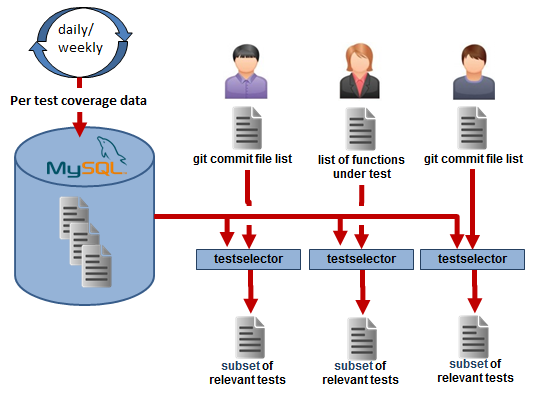
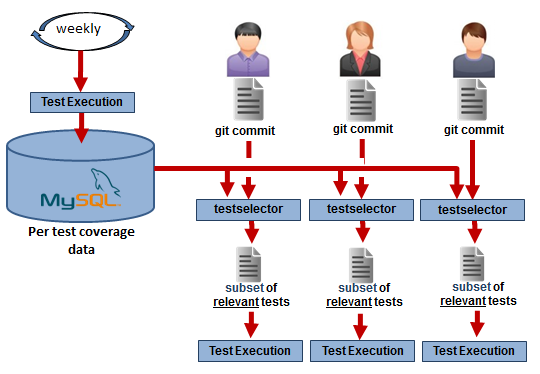
testselector checks for non-committed changes
Updates to Readme

diff --git a/testselector/src/lib/test_selection.rb b/testselector/src/lib/test_selection.rb
@@ -14,12 +14,23 @@ module TestSelection
     files.each do |file|
       if (file =~ includeRegExp)
         unless (file =~ excludeRegExp)
-          prunedFiles.push(file.sub(gitParam['removePrefix'], gitParam['replacePrefixWith']))
+          prunedFiles.push(file)
         end
       end
     end
     return prunedFiles
   end
+
+  # Function: given an array of filenames,
+  # will return an array containing only the interesting file names
+  def self.renameFileList(files, gitParam )
+    renamedFiles = Array.new
+    files.each do |file|
+      renamedFiles.push(file.sub(gitParam['removePrefix'], gitParam['replacePrefixWith']))
+    end
+    return renamedFiles
+  end
+
   # Creates a test suite with the name specified by "outputFile" using the
   # coverage data provided by the executions (the identifiers of which are)
   # specified by the "testRuns" argument for the git commit in the radio
@@ -41,34 +52,35 @@ module TestSelection
         puts "\t#{testsuite}"
       end
     end
+    # Then, from each commit get the list of modified files.
+    # The current assumptions are that there is no need to regress the
+    # deleted file(s), so they wil be excluded. In addition, for new
+    # files there is no regression test yet, so they will also be
+    # excluded.
+    commitFiles = Array.new
+    commits.each do |commit|
+      commitFiles.concat(GitWrapper::getModifiedFiles(debug, commit))
+    end
+    #Remove unrelated files to speed-up processing
+    commitFiles = pruneFileList(commitFiles, gitParam)
+    if (commitFiles.size == 0)
+      $stderr.puts "Error: No C++ files found in commit"
+      exit 1
+    end
     if selectBy ==  :files
-      # Then, from each commit get the list of modified files.
-      # The current assumptions are that there is no need to regress the
-      # deleted file(s), so they wil be excluded. In addition, for new
-      # files there is no regression test yet, so they will also be
-      # excluded.
-      commitFiles = Array.new
-      commits.each do |commit|
-        commitFiles.concat(GitWrapper::getModifiedFiles(debug, commit))
-      end
-      #Remove unrelated files to speed-up processing
-      files = pruneFileList(commitFiles, gitParam)
-      if (files.size == 0)
-        $stderr.puts "Error: No C++ files found in commit"
-        exit 1
-      end
-      puts "Which exercise code in one of the following #{files.size} files:"
-      files.sort!
-      files.each do |file|
+      commitFiles = renameFileList(commitFiles, gitParam)
+      puts "Which exercise code in one of the following #{commitFiles.size} files:"
+      commitFiles.sort!
+      commitFiles.each do |file|
         puts "\t#{file}"
       end
-      create_test_suite_from_files(files, testRuns, testSuites, debug, escapeTestNames, outputFile, dbParam, outputParam)
+      create_test_suite_from_files(commitFiles, testRuns, testSuites, debug, escapeTestNames, outputFile, dbParam, outputParam)
     elsif selectBy ==  :functions
-       commitFunctions = Array.new
-       commits.each do |commit|
-         modifiedFunctions = GitWrapper::getModifiedFunctions(debug, commit)
-         commitFunctions.concat(modifiedFunctions)
-       end
+      commitFunctions = Array.new
+      commits.each do |commit|
+        modifiedFunctions = GitWrapper::getModifiedFunctions(debug, commit, commitFiles)
+        commitFunctions.concat(modifiedFunctions)
+      end
       if (commitFunctions.size == 0)
         $stderr.puts "Error: No modified functions found in commit"
         exit 1
@@ -76,9 +88,9 @@ module TestSelection
       puts "Which exercise code in one of the following #{commitFunctions.size} functions:"
       commitFunctions.sort!
       commitFunctions.each do |function|
-         puts "\t#{function}"
-       end
-       create_test_suite_from_functions(commitFunctions, testRuns, testSuites, debug, escapeTestNames, outputFile, dbParam, outputParam)
+        puts "\t#{function}"
+      end
+      create_test_suite_from_functions(commitFunctions, testRuns, testSuites, debug, escapeTestNames, outputFile, dbParam, outputParam)
     else
       $stderr.puts "Error unhandled --select-by"
       exit 1
@@ -142,8 +154,8 @@ module TestSelection
     puts "For #{matchingFunctions.size} matching functions,"
     matchingFunctions.sort!
     matchingFunctions.each do |function|
-       puts "\t#{function}"
-     end
+      puts "\t#{function}"
+    end
     GenTestSuiteMira::generateTestSuite(testRuns, selectedTests, escapeTestNames, outputFile, outputParam, sqlIf)
     #Close connection to SQL server
     sqlIf.closeCon

diff --git a/testselector/src/lib/git.rb b/testselector/src/lib/git.rb
@@ -11,8 +11,16 @@ module GitWrapper
       puts "Error: must be run inside a git repository and at the top of the working directory."
       return false
     end
-
     return true
+  end
+
+  def self.uncommittedChangesPresent()
+    output  = `git diff-index --quiet HEAD`
+    if (($?.to_i != 0))
+      puts "Error: uncommitted changes detected in git repo."
+      return true
+    end
+    return false
   end
 
   # Function returns the path of the configuration directory.
@@ -31,11 +39,11 @@ module GitWrapper
     files
   end
   # get list of modified functions in commit
-  def self.getModifiedFunctions(debug, commit)
+  def self.getModifiedFunctions(debug, commit, commitFiles)
     functions = []
     regexp = Regexp.new('@@.*@@ .* (.*)\(')
     excludeRegexp = Regexp.new('\$')
-    cmd = "git log -p -m #{commit}^..#{commit} | grep '^@@'"
+    cmd = "git log -p -m #{commit}^..#{commit} #{commitFiles.join(' ')}| grep '^@@'"
     output = `#{cmd}`
     output.split("\n").map do |line|
       match = regexp.match(line)

diff --git a/testselector/src/lib/gen_test_suite_mira.rb b/testselector/src/lib/gen_test_suite_mira.rb
@@ -42,18 +42,18 @@ module GenTestSuiteMira
     end
   end
 
+  def self.fileMissing(file, warnings)
+    fileNotPresent = !File.file?(file)
+    if (fileNotPresent)
+      warnings.push("Warning: A file wasn't found in the repo. It was renamed or removed since the last time coverage data was collected. File was removed from output: #{file}")
+    end
+    fileNotPresent
+  end
   def self.validateTestModules(testModules)
     warnings = []
     testModules.uniq!
     # check that the file names are still valid
-    testModules.delete_if
-    testModules.each do |file|
-      fileNotPresent = !File.file?(file)
-      if (fileNotPresent)
-        warnings.push("Warning: A file wasn't found in the repo. It was renamed or removed since the last time coverage data was collected. File was removed from output: #{file}")
-      end
-      fileNotPresent
-    end
+    testModules.delete_if { |file| fileMissing(file, warnings) }
     warnings
   end
 

diff --git a/testselector/src/testSelector.rb b/testselector/src/testSelector.rb
@@ -94,8 +94,12 @@ END_OF_BANNER
         puts DONT_ESCAPE_TEST_NAMES_WARNING
       end
 
-      opts.on_tail("-d", "--debug", "Output debugging information") do
+      opts.on_tail("--debug", "Output debugging information") do
         options[:debug] = true
+      end
+
+      opts.on_tail("--force", "Override warnings and run tool anyway.") do
+        options[:forced] = true
       end
 
       opts.on_tail("-h", "--help", "Show help information") do
@@ -171,6 +175,10 @@ if __FILE__ == $PROGRAM_NAME
   elsif options[:create]
     # Check to see if preconditions for running script are met
     if !GitWrapper::isInRepo()
+      exit 1
+    end
+    if (!options[:forced] && GitWrapper::uncommittedChangesPresent())
+      puts "Error: uncommitted changes will not be used to select tests. Use --force option to ovverride."
       exit 1
     end
     if options[:commit_ids]

diff --git a/README.md b/README.md
@@ -42,10 +42,16 @@ Input:
 * A list of git commits or functions to use to determine relevant tests
 
 The rule used to select tests are very simple:
+* select all tests that call at least one of the modified functions in the specified git change sets.
+
+   OR
 * select all tests that call at least one function in one of the modified files in the specified git change sets.
 
    OR
-* select all tests that call a certain list of functions
+* select all tests that call one of the specified functions
+
+   OR
+* select all tests that call a function in one of the specified files
 
 Output:
 * List of relevant tests in specified format
@@ -62,49 +68,47 @@ Try this first:
 ```
 
 
-### 1) Select tests covering code in files modified in last commit
+###  The default is to select tests covering code in modified functions in last commit
 ```
+ cd /repo/gitproject
  testselector
- cd /repo/gitproject
- Searching which tests in ["regression.mira"] exercise code in one of the following .cc files from ["8f6c4233f8a4cbad"]:
- ["./eqp/rdEqp/serviceControl/src/rdEqpCtrl.cc"]
- For 1 C++ files in commit ["8f6c4233f8a4cbad"], identified 278 relevant tests out of 551(50.45%)
- New mira suite created: /repo/gitproject/test/mira/tests/testsuites/Krakatoa.mira
- Elapsed time: 6.278 seconds.
-```
+For commits:
+     cafe703383463a6494956ac5b98ff96e94c4ae0a
+Searching for tests in:
+     regression.mira
+Which exercise code in one of the following 8 functions:
+     RdSrv::generateCapabilityMismatchString
+     RdSrv::hasComparableBranchCap
+     RdSrv::hasComparableCapToLocked
+     RdBranchCapabilityCfmMessageHandler::handleTxPower
+     RdClientTxRxBranch::isCarrierDataRequired
+     RdModel::getBranchCarrierDataCapability
+     TxLoSrvIru::isTxLoToBeChanged
+     TxLoSrvIru::postInitializeService
+For 10 matching functions,
+     Eqp::RdSrv::generateCapabilityMismatchString(Rd::BranchBandCapability const&, Rd::BranchBandCapability const&, std::string&)
+     Eqp::RdSrv::generateCapabilityMismatchString(Rd::BranchFreqCapability const&, Rd::BranchFreqCapability const&, std::string&)
+     Eqp::RdSrv::generateCapabilityMismatchString(Rd::BranchRxGainCapability const&, Rd::BranchRxGainCapability const&, std::string&)
+     Eqp::RdSrv::generateCapabilityMismatchString(Rd::BranchTxPowerCapability const&, Rd::BranchTxPowerCapability const&, std::string&)
+     Eqp::RdSrv::hasComparableBranchCap(unsigned int, std::string&)
+     Eqp::RdSrv::hasComparableCapToLocked(unsigned int, std::string&)
+     Rd::RdBranchCapabilityCfmMessageHandler::handleTxPower(unsigned int, Rd::BranchEnumType, capTxPowerMeasS&)
+     Rd::RdClientTxRxBranch::isCarrierDataRequired()
+     Tx::Service::TxLoSrvIru::isTxLoToBeChanged(Frequency&)
+     Tx::Service::TxLoSrvIru::postInitializeService()
+selected the following tests for each test positions used to collect coverage data:
+Pos. Test suite       Total Selected Total(mins) Selected(mins) Savings(mins) Testrun_id Date_tested
+-    -                -     -        -           -              -             -          -          
+119  regression.mira  218   0        168         0              168           290        2016-03-20 
+157  regression.mira  181   0        89          0              89            328        2016-03-28 
+169  regression.mira  283   142      174         148            25            291        2016-03-20 
+183  regression.mira  270   0        151         0              151           292        2016-03-20 
+214  regression.mira  250   0        120         0              120           329        2016-03-28 
+220  regression.mira  287   0        168         0              168           330        2016-03-28 
+91   regression.mira  227   0        128         0              128           327        2016-03-28 
+New  suite created: test/mira/tests/testsuites/smarttest.mira
+Elapsed time: 6.951 seconds.
 
-### 2) Select tests covering code in files modified in a commit
-
-Get the list of testsuites for which we have data:
-``` 
- cd /repo/gitproject
- testselector --list-test-suites
- regression.mira
- smoke.mira
- other.mira
- Elapsed time: 0.021 seconds.
-```
-In the following example we ask ''testselector'' to select a subset of tests from multiple test suites. In this example the test suites are called: { smoke, regression and other }.
-We also specify a commit to be used (HEAD is used when not specified).
-```
- cd /repo/gitproject
- testselector --test-suites smoke.mira,regression.mira,other.mira -i fdca7fbd6d 
- Searching which tests in ["smoke.mira", "regression.mira", "other.mira"] exercise code in one of the following .cc files from ["fdca7fbd6d"]:
- ["./antenna/service/voltage/src/voltageService.cc"]
- For 1 C++ files in commit ["fdca7fbd6d"], identified 209 relevant tests out of 808(25.87%)
- New mira suite created: /repo/gitproject/test/mira/tests/testsuites/Krakatoa.mira
- Elapsed time: 0.398 seconds.
-```
-
-### 3) Select tests covering a function (or class)
-Looking for tests that invoke a specific function:
-```
- cd /repo/gitproject
- testselector --function TxBrFaultAdvisor::onFaultRaised
- Searching which tests in ["regression.mira"] exercise the function TxBrFaultAdvisor::onFaultRaised.
- For 1 matching functions, identified 14 relevant tests out of 551(2.54%)
- New mira suite created: /repo/gitproject/test/mira/tests/testsuites/Krakatoa.mira
- Elapsed time: 40.368 seconds.
 ```
 
 # Using gcov to Generate per test coverage data
